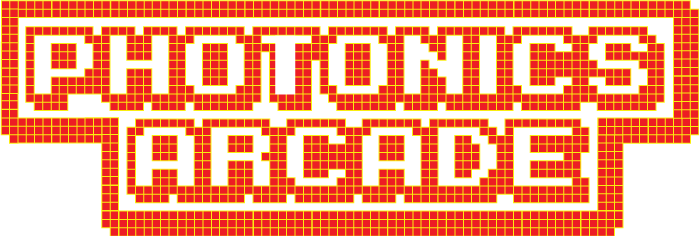
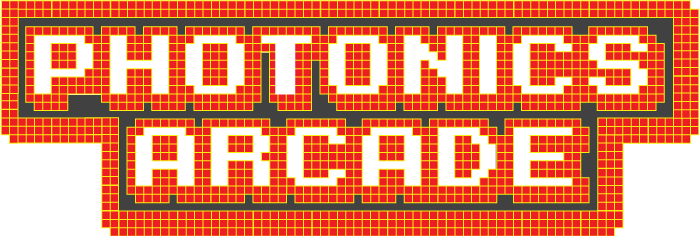
First intro to group

Changed region(s): [[0.0, 0.0593, 0.9614, 0.9195]]

diff --git a/CSS/stylesheet.css b/CSS/stylesheet.css
@@ -13,7 +13,8 @@ html{
 
 body{
 	width:850px;
-	margin:auto;
+	margin: auto;
+	margin-top: 20px;
 }
 #upperdiv{
 	margin:auto;
@@ -28,11 +29,13 @@ body{
 }
 
 #lowerdiv{
-	padding-top:70px;
-	max-width:600px;
-	height:600px;
+	min-width:600px;
 	margin:auto;
-	color:#ddd;
+	height:200px;
+	margin-top: 100px;
+	text-align: center;
+	font-size:50px;
+	background-color:#aaaaaa;
 }
 
 /*****************************************************
@@ -42,7 +45,7 @@ footer{
 	position:fixed;
 	bottom:0;
 	left:0;
-	background-color:#dadada;
+	background-color:#aaaaaa;
 	width:100%;
 	height:52px;
 	text-decoration:none;

diff --git a/index.html b/index.html
@@ -12,7 +12,7 @@
 		<img src = "photos/billboard.png" id = "billboard">
 	</div>
 	<div id="lowerdiv">
-	<p> Sizing is going to change as well. Zooming in/out really messes with the page </p>
+	<p>info info info</p>
 	</div>
 </body>
 <footer>
